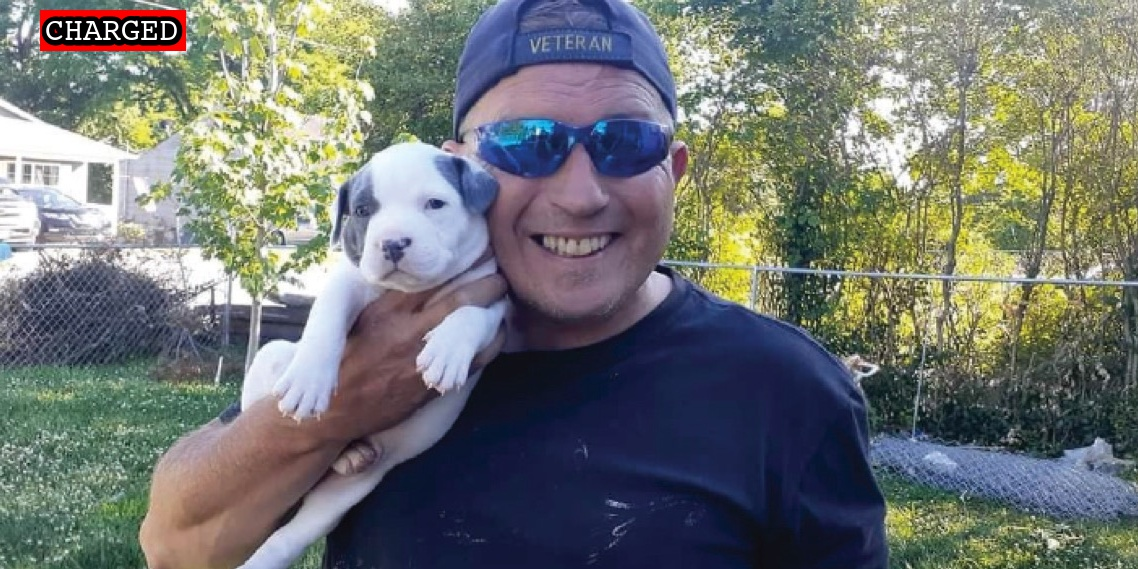
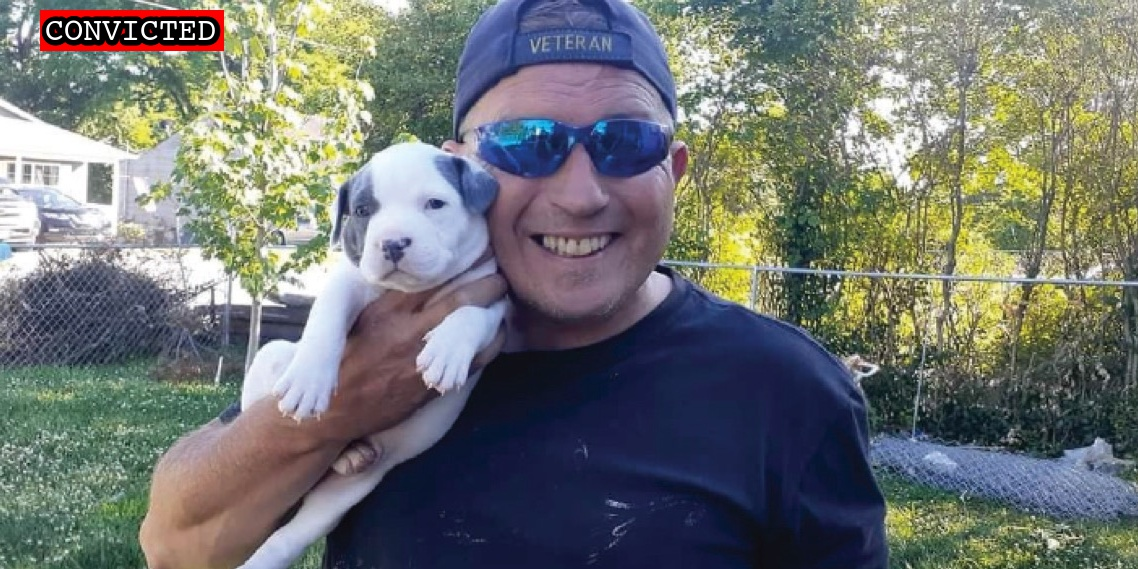
Latest import

Changed region(s): [[0.0308, 0.0, 0.2153, 0.0896]]

diff --git a/docs/_suspects/james-brooks.md b/docs/_suspects/james-brooks.md
@@ -4,15 +4,17 @@ lastName: Brooks
 hashtag:
 aka:
 residence: Tennessee
-status: Charged
+status: Convicted
 date: 2022-01-03
 charged: 2022-01-03
 indicted:
-convicted:
+convicted: 2022-08-04
+acquitted:
 sentenced:
 dismissed:
 deceased:
-plea_hearing:
+plea_hearing: 2022-08-04
+trial_date:
 sentencing:
 age:
 occupation:
@@ -31,11 +33,18 @@ description: Click for latest case details. Suspects innocent until proven guilt
 author: seditiontrack
 layout: suspect
 published: true
-caseNumber: 1:22-mj-000
+caseNumber: 1:22-cr-18
 videos:
 charges:
+  - code: 18 USC § 5104(e)(2)(C)
+    title: Entering and Remaining in Certain Rooms in the Capitol Building
+    url: https://www.law.cornell.edu/uscode/text/40/5104
+    felony: false
 sentence:
 ---
+
 - [News Report](https://www.thedailybeast.com/jan-6-rioters-james-wayne-brooks-john-cameron-charged-for-part-in-capitol-insurrection)
 - [Statement of Facts](https://www.justice.gov/usao-dc/case-multi-defendant/file/1481136/download)
-- [Information](https://extremism.gwu.edu/sites/g/files/zaxdzs2191/f/James%20Wayne%20Brooks%20Information.pdf)
+- [Information](https://www.justice.gov/usao-dc/case-multi-defendant/file/1524271/download)
+- [Plea Agreement](https://www.justice.gov/usao-dc/case-multi-defendant/file/1524276/download)
+- [Statement of Offense](https://www.justice.gov/usao-dc/case-multi-defendant/file/1524281/download)

diff --git a/docs/_suspects/michael-riley.md b/docs/_suspects/michael-riley.md
@@ -13,6 +13,7 @@ sentenced:
 dismissed:
 deceased:
 plea_hearing:
+trial_date: 2022-09-19
 sentencing:
 age:
 occupation: U.S. Capitol Police K-9 Officer
